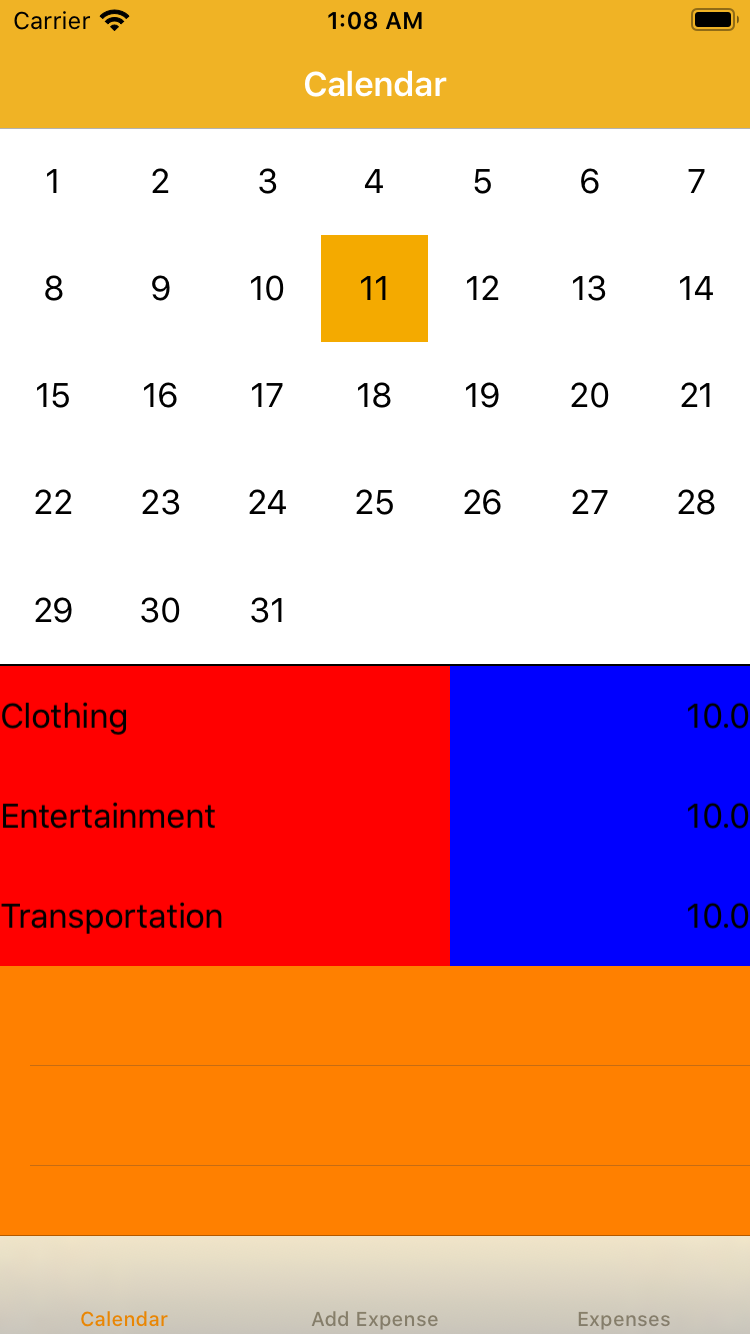
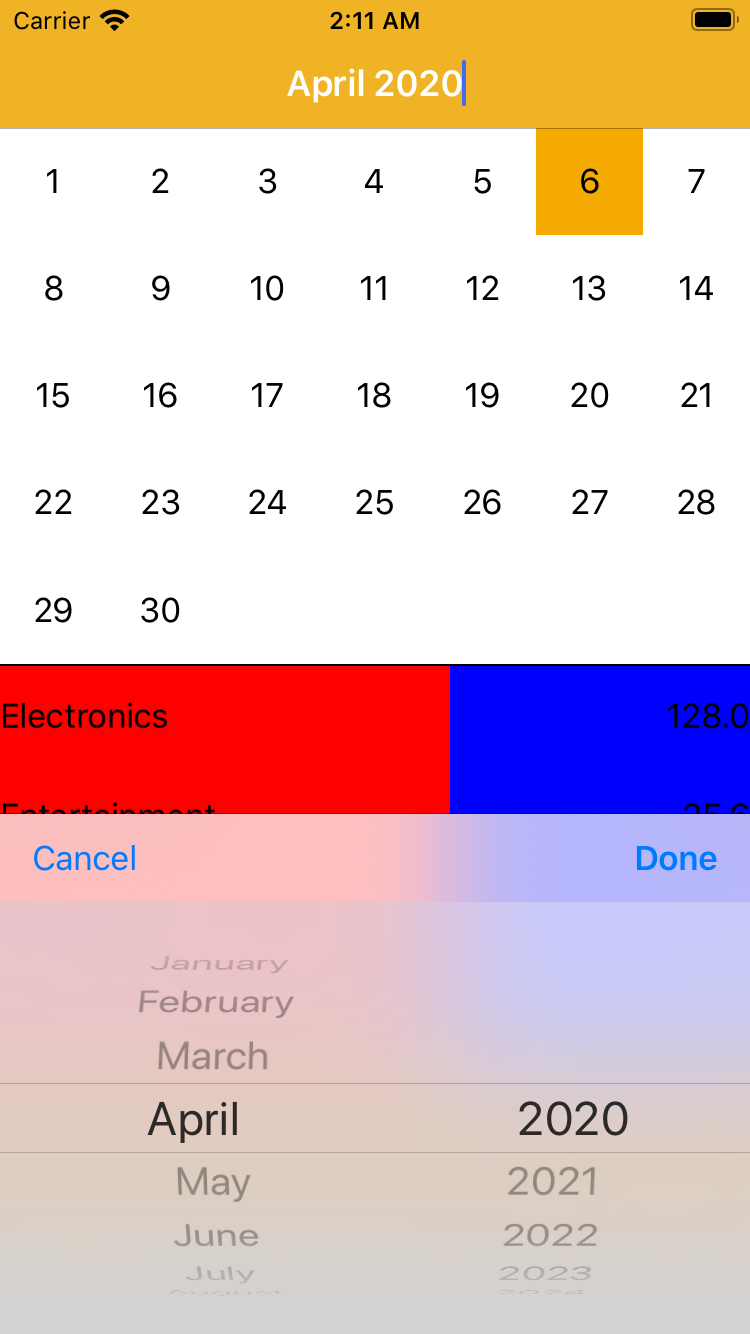
Can switch date of calendar, and calendar table view updates with selected date

diff --git a/Pocket/ViewControllers/Calendar/CalendarCVC.swift b/Pocket/ViewControllers/Calendar/CalendarCVC.swift
@@ -1,6 +1,10 @@
 import UIKit
 
-
+/*
+ Collection view holds current year and month
+ Then using the selected cell the three values, date, month, year is combined
+ to create the start and end date to send to query the database
+ */
 class CalendarCVC: UICollectionView, UICollectionViewDelegateFlowLayout,UICollectionViewDataSource, UITextFieldDelegate {
     
     var initialLoad = true
@@ -16,25 +20,26 @@ class CalendarCVC: UICollectionView, UICollectionViewDelegateFlowLayout,UICollec
     var entryCategory: [String] = []
     var entryAmount: [CGFloat] = []
     
-    var startingDate: Date?
-    
     // Used to update table view
     var calendarTableView: CalendarTableView?
+    
+    
+    var selectedYear = ""
+    var selectedMonth = Date.findMonthAsNum(date: Date())
+    var setNumOfDays = Date.findNumOfDaysInMonth(date: Date()) // Used to see which cells need to be hidden
     
     func viewDidLoad() {
         self.dataSource = self
         self.delegate = self
-        
         self.backgroundColor =  UIColor.white
         self.register(CalendarCVCCalendarCell.self, forCellWithReuseIdentifier: cellReuseIdentifier)
-        
         cellWidth = self.frame.width/7
         
-        
-        print ("Calendar Collection View Loaded")
-        
+        // set selected year
         let (startDate, _) = Date.getStartEndDate(referenceDate: Date(), timeInterval: .Month)
-        startingDate = startDate
+        let dateFormatter = DateFormatter()
+        dateFormatter.dateFormat = "YYYY"
+        selectedYear = dateFormatter.string(from: startDate)
     }
     
     
@@ -50,12 +55,17 @@ class CalendarCVC: UICollectionView, UICollectionViewDelegateFlowLayout,UICollec
             self.collectionView(self, didSelectItemAt: lastSelected!)
             self.selectItem(at: lastSelected, animated: true, scrollPosition: .top)
         }
+        
+        
+        print ("current month", selectedMonth)
+        print ("number of days in month", setNumOfDays)
     }
     
     
     /// number of cells in section
     func collectionView(_ collection: UICollectionView, numberOfItemsInSection section: Int) -> Int {
-        return Date.getNumberOfDaysInMonth(date: Date())
+//        return Date.getNumberOfDaysInMonth(date: Date())
+        return 31 // we will hide ones we do not need
     }
     
     
@@ -64,15 +74,17 @@ class CalendarCVC: UICollectionView, UICollectionViewDelegateFlowLayout,UICollec
     {
         let cell = collection.dequeueReusableCell(withReuseIdentifier: cellReuseIdentifier, for: indexPath) as! CalendarCVCCalendarCell
 //        cell.backgroundColor = UIColor.purple
+        
+        
         cell.layer.borderWidth = 0.1
         cell.label.text = String(indexPath.row+1)
 
-        
+        cell.date = indexPath.row+1
         // Set cell date (Store as a date string)
-        var dateComponent = DateComponents()
-        dateComponent.day = indexPath.row
+//            var dateComponent = DateComponents()
+//            dateComponent.day = indexPath.row
         // Set date associated with cell
-        cell.date = Calendar.current.date(byAdding: dateComponent, to: startingDate!)!
+//            cell.date = Calendar.current.date(byAdding: dateComponent, to: startingDate!)!
         
 //        print (cell.date)
         
@@ -81,6 +93,13 @@ class CalendarCVC: UICollectionView, UICollectionViewDelegateFlowLayout,UICollec
             cell.backgroundColor = UIColor(rgb: MyEnums.Colours.ORANGE_PUMPKIN.rawValue)
         } else if cell.backgroundColor != UIColor.white{
             cell.backgroundColor = .white
+        }
+        
+        // hide cell if it is not in the current month
+        if (indexPath.row+1 > setNumOfDays) {
+            cell.isHidden = true
+        } else {
+            cell.isHidden = false
         }
 
         return cell
@@ -103,21 +122,27 @@ class CalendarCVC: UICollectionView, UICollectionViewDelegateFlowLayout,UICollec
             cell.backgroundColor = UIColor(rgb: 0xF4AA00)
             lastSelected = indexPath
             
+            // Specify date components
+            var dateComponents = DateComponents()
+            dateComponents.year = Int(selectedYear)
+            dateComponents.month = selectedMonth
+            dateComponents.day = cell.date
+            dateComponents.timeZone = TimeZone(abbreviation: "UTC") // Japan Standard Time
             
-            var dateComponent = DateComponents()
-            dateComponent.minute = 1439
-            let endDate = Calendar.current.date(byAdding: dateComponent, to: cell.date)
+            let d1 = Calendar.current.date(from: dateComponents)
             
-            let s1 = Date.formatDateAndTimezoneString(date: cell.date, dateFormat: DatabaseEnum.Date.dataFormat.rawValue, timeZone: .UTC)
-            let s2 = Date.formatDateAndTimezoneString(date: endDate!, dateFormat: DatabaseEnum.Date.dataFormat.rawValue, timeZone: .UTC)
             
+            var dateComponentAdd = DateComponents()
+            dateComponentAdd.minute = 1439
+            let d2 = Calendar.current.date(byAdding: dateComponentAdd, to: d1!)
+            
+            // Convert to string
+            let s1 = Date.formatDateAndTimezoneString(date: d1!, dateFormat: DatabaseEnum.Date.dataFormat.rawValue, timeZone: .UTC)
+            let s2 = Date.formatDateAndTimezoneString(date: d2!, dateFormat: DatabaseEnum.Date.dataFormat.rawValue, timeZone: .UTC)
             
             print (s1, s2)
             
-            // convert to string format
             calendarTableView?.reloadData(startDate: s1 , endDate: s2)
-            
-            
         }
     }
 

diff --git a/Pocket/ViewControllers/Calendar/CalendarView.swift b/Pocket/ViewControllers/Calendar/CalendarView.swift
@@ -1,9 +1,3 @@
-/*
-   TODO:
-   - Calendar like with list of expenses on that day listed on the bottom
-   - Swipe left on calendar day to remove an entry
-   - Each calendar box shows total expense on that day
-*/
 import UIKit
 
 
@@ -71,7 +65,7 @@ class CalendarView: UIViewController {
 
         // Format initial display date
         let formatter = DateFormatter()
-        formatter.dateFormat = "MMM yyyy"
+        formatter.dateFormat = "MMMM yyyy"
         datePickerTextField!.text = formatter.string(from: Date())
         datePickerTextField?.textColor = .white
         datePickerTextField?.font = .boldSystemFont(ofSize: 18)
@@ -94,7 +88,19 @@ class CalendarView: UIViewController {
     /// Date picker done button
     @objc func doneDatePicker(){
 
-        datePickerTextField!.text = String(format: "%@ %d", datePicker.months[datePicker.month-1], datePicker.year)
+        let newDate = String(format: "%@ %d", datePicker.months[datePicker.month-1], datePicker.year)
+        
+        if datePickerTextField!.text != newDate {
+            datePickerTextField!.text = newDate
+            
+            // update collection view properties
+            collectionView?.selectedMonth = datePicker.month
+            collectionView?.setNumOfDays = Date.findNumOfDaysInMonth(year: datePicker.year, month: datePicker.month)
+            collectionView?.reloadData()
+        }
+        else {
+             print ("same")
+        }
         
         // Dismiss date picker dialog
         self.navigationController?.navigationBar.endEditing(true)

diff --git a/Pocket/Extensions/ExtensionDate.swift b/Pocket/Extensions/ExtensionDate.swift
@@ -11,8 +11,19 @@ extension Date
         case UTC, LocalZone
     }
     
+
+    
+    public static func findMonthAsNum(date: Date) -> Int {
+        
+        let calendar = Calendar.current
+        let components = calendar.dateComponents([.month], from: date)
+        
+        return components.month!
+    }
+    
+    
     /// Get number of days in a month
-    public static func getNumberOfDaysInMonth(date: Date) -> Int {
+    public static func findNumOfDaysInMonth(date: Date) -> Int {
         
         let calendar = Calendar.current
         // Calculate start and end of the current month
@@ -22,6 +33,18 @@ extension Date
         
         return numDays
     }
+    /// Get number of days in a month
+    public static func findNumOfDaysInMonth(year: Int, month: Int) -> Int {
+        
+        let dateComponents = DateComponents(year: year, month: month)
+        let calendar = Calendar.current
+        let date = calendar.date(from: dateComponents)!
+
+        let range = calendar.range(of: .day, in: .month, for: date)!
+        let numDays = range.count
+        return numDays
+    }
+    
     
     /// Converts date to string
     /// - parameters date: current date

diff --git a/Pocket/ViewControllers/Calendar/CalendarTableView.swift b/Pocket/ViewControllers/Calendar/CalendarTableView.swift
@@ -25,7 +25,7 @@ class CalendarTableView: UITableView, UITableViewDataSource, UITableViewDelegate
         reloadData(startDate: "2020-01-01 20:00", endDate: "2020-12-30 20:00")
     }
     
-    // Updates the view. start and end date should be in UTC
+    /// Updates the view. start and end date should be in UTC
     func reloadData(startDate: String, endDate: String) {
         categories.removeAll()
         categoryTotal.removeAll()

diff --git a/Pocket/Cells/CalendarCVCCalendarCell.swift b/Pocket/Cells/CalendarCVCCalendarCell.swift
@@ -9,11 +9,11 @@ class CalendarCVCCalendarCell: UICollectionViewCell {
         return label
     }()
     
-    
-    var date: Date = {
-        var date = Date()
-        return date
-    }()
+    var date = 0
+//    var date: Date = {
+//        var date = Date()
+//        return date
+//    }()
     
     override init(frame: CGRect) {
         super.init(frame: frame)

diff --git a/Pocket/Database/Database.swift b/Pocket/Database/Database.swift
@@ -124,6 +124,7 @@ class Database {
     
     
     /// Query database
+    /// StartingDate, Ending Date should be according to the format in DatabaseEnum "yyyy-MM-dd HH:mm"
     func loadCategoriesAndTotals(startingDate: String, endingDate: String) -> ([String], [CGFloat]) {
         
         var category: [String] = []
